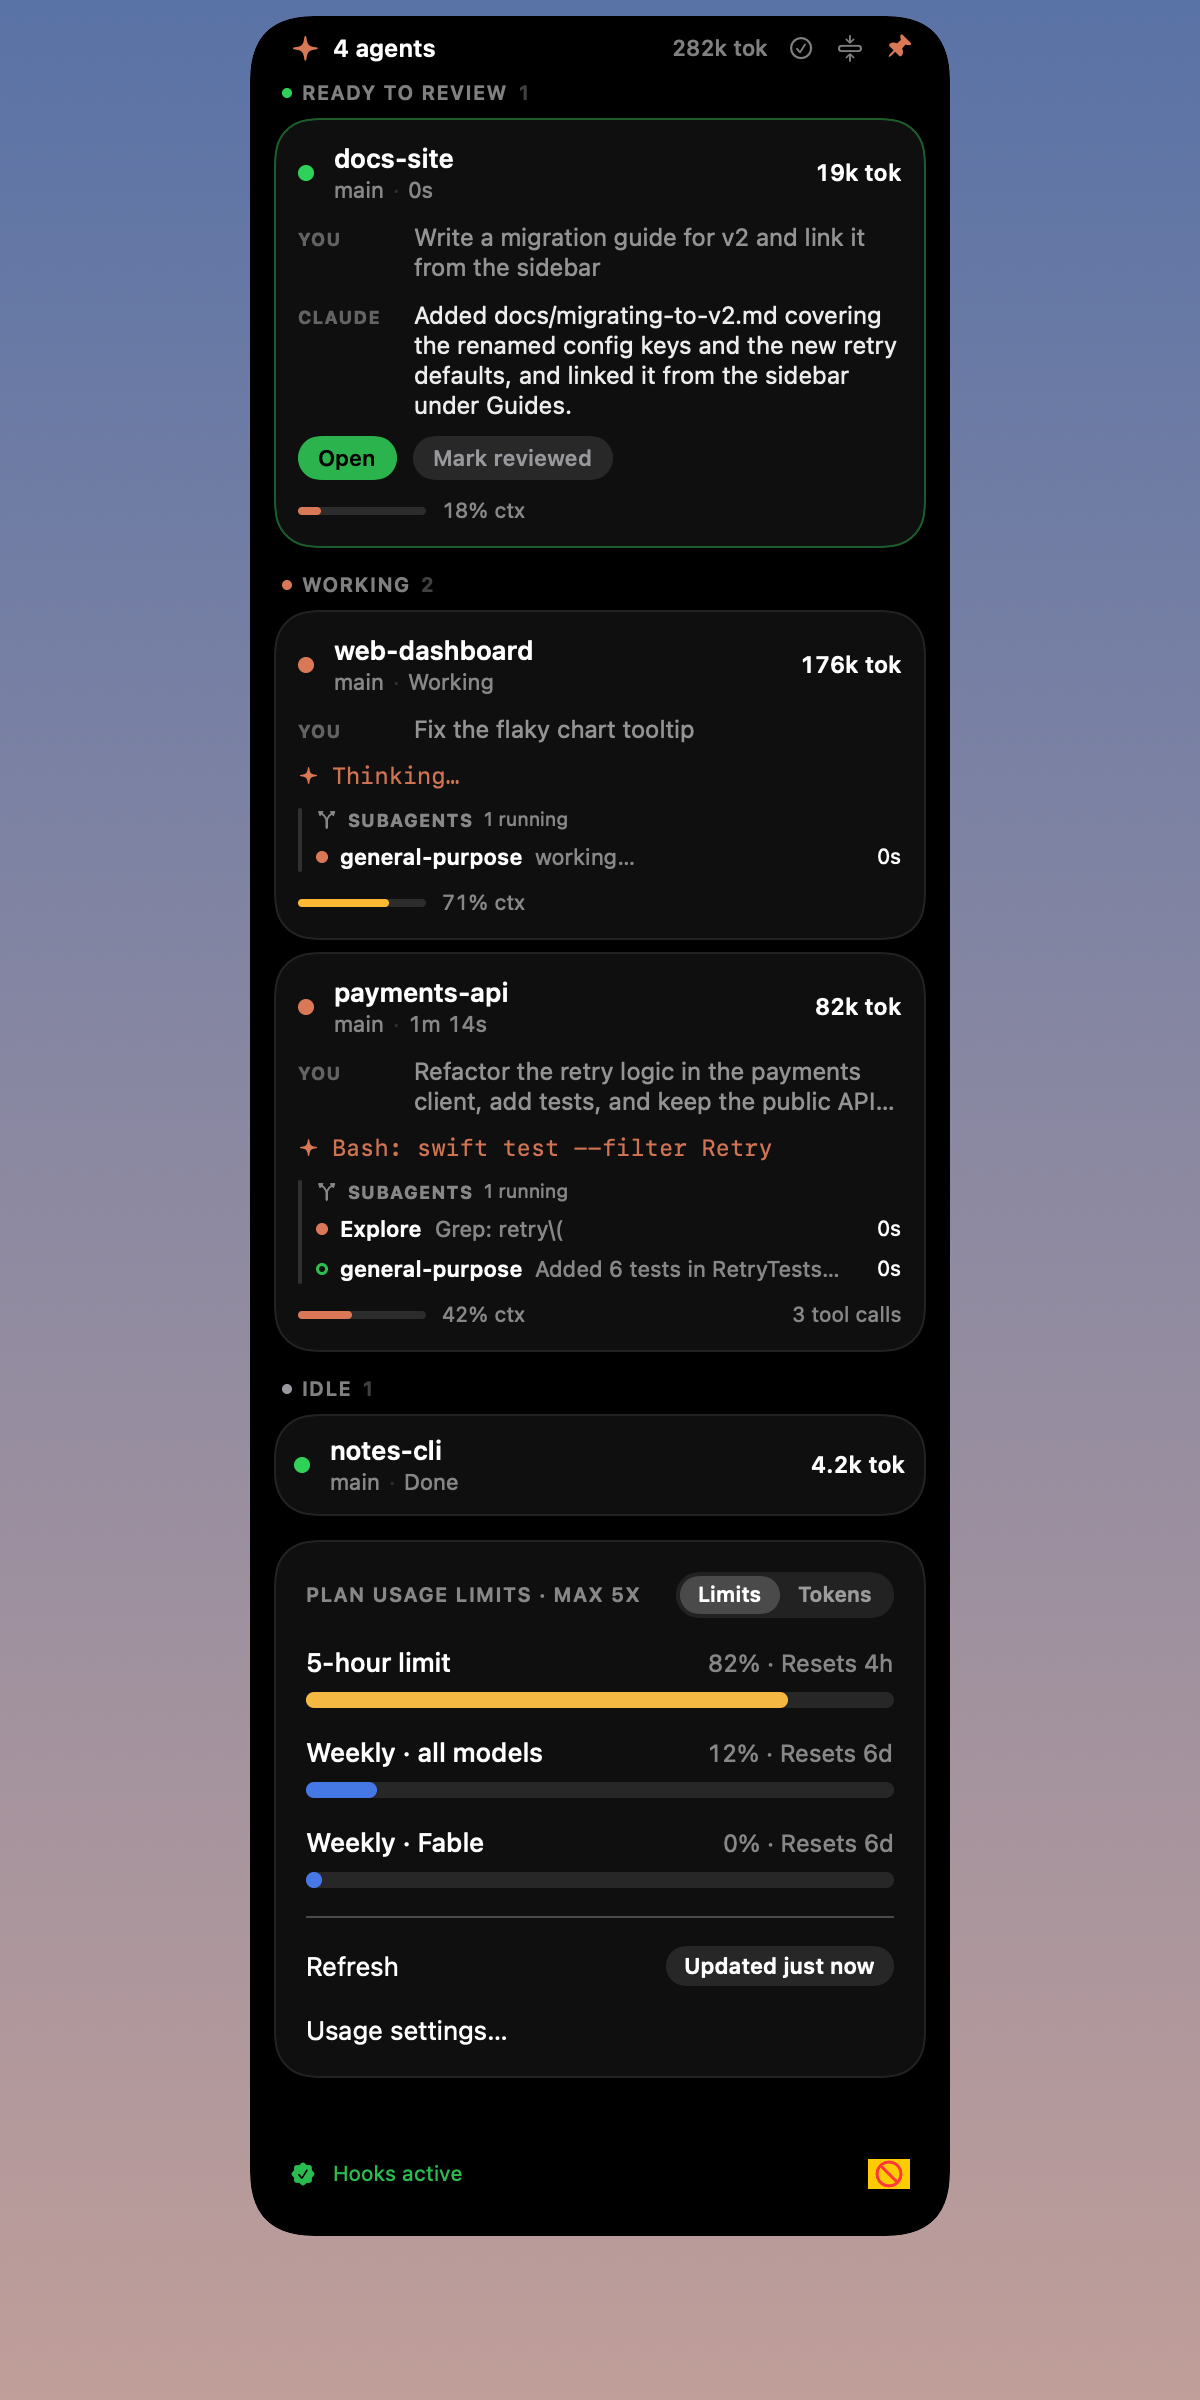
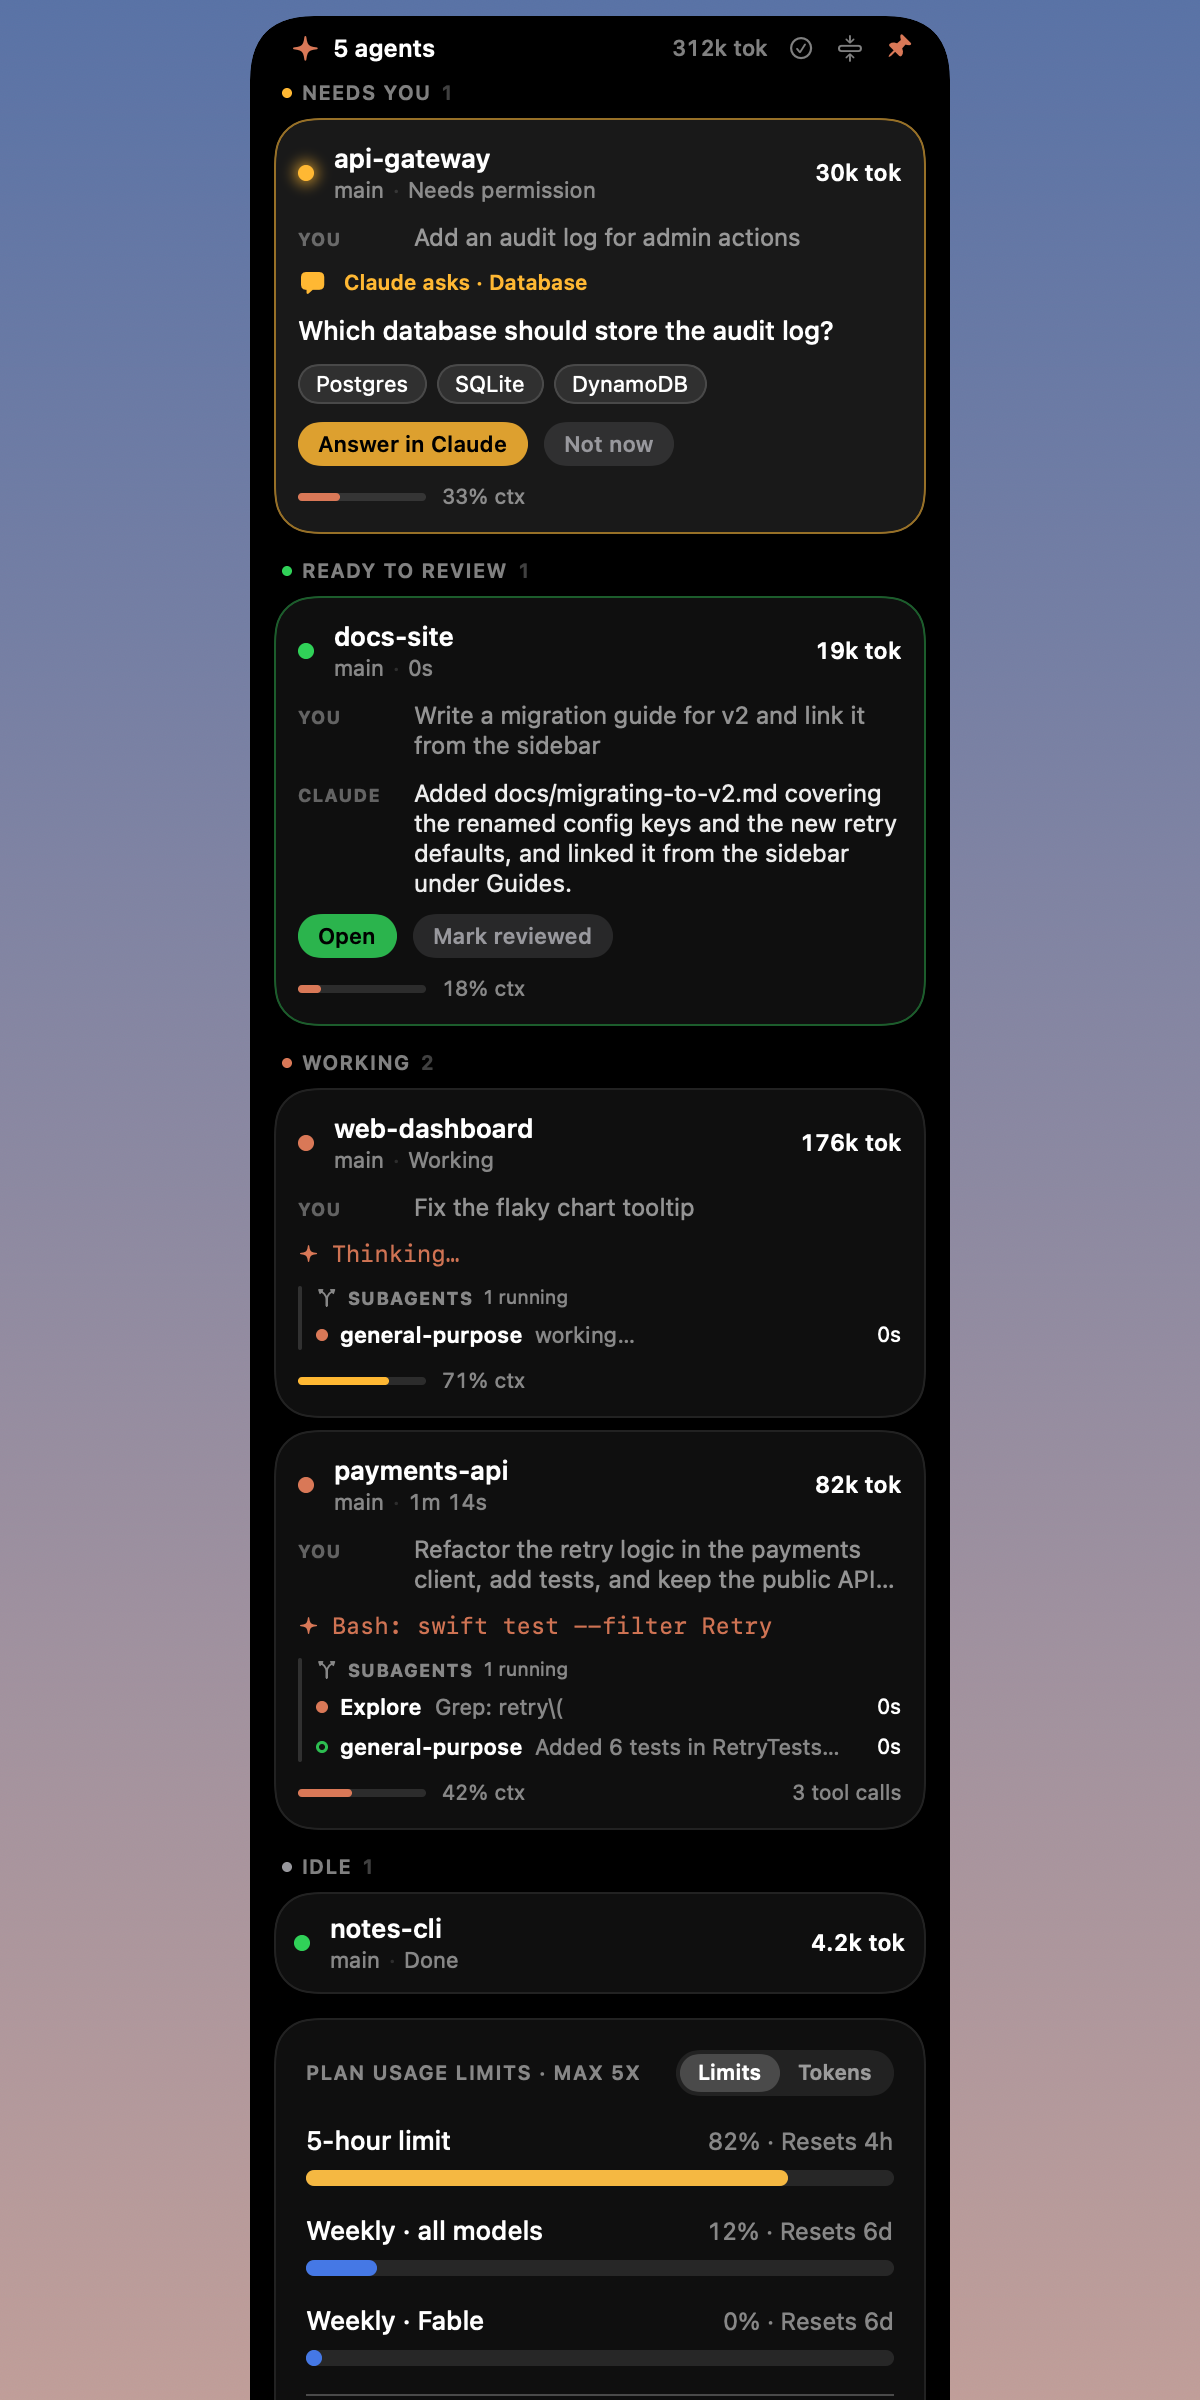
Show Claude's questions as questions, not permission prompts
When Claude asks the user something (the AskUserQuestion tool) the island now shows the question and its
choices with 'Answer in Claude' / 'Not now' (compact view: a single Answer button) instead of the raw tool
name with Allow/Deny. Notifications say 'Claude has a question'.

diff --git a/Sources/ClaudeNotch/Views.swift b/Sources/ClaudeNotch/Views.swift
@@ -714,12 +714,76 @@ struct SubagentList: View {
     }
 }
 
+/// The choices of a question as read-only pills that wrap onto as many lines as they need.
+struct FlowChips: View {
+    let items: [String]
+    var more = 0
+    var multi = false
+    var body: some View {
+        VStack(alignment: .leading, spacing: 5) {
+            ForEach(rows, id: \.self) { row in
+                HStack(spacing: 5) {
+                    ForEach(row, id: \.self) { Text($0).font(.system(size: 11)).lineLimit(1).chip() }
+                }
+            }
+            if more > 0 { Text("+\(more) more").font(.system(size: 10.5)).foregroundStyle(.secondary) }
+            if multi { Text("Pick any").font(.system(size: 10)).foregroundStyle(.tertiary) }
+        }
+    }
+    /// Greedy packing by approximate text width so pills wrap without a custom Layout.
+    private var rows: [[String]] {
+        var out: [[String]] = [[]]
+        var width = 0
+        for it in items {
+            let w = it.count * 7 + 22
+            if width + w > 250, !out[out.count - 1].isEmpty { out.append([]); width = 0 }
+            out[out.count - 1].append(it)
+            width += w + 5
+        }
+        return out
+    }
+}
+
+private extension View {
+    func chip() -> some View {
+        padding(.horizontal, 9).padding(.vertical, 3)
+            .background(Color.white.opacity(0.10), in: Capsule())
+            .overlay(Capsule().strokeBorder(Color.white.opacity(0.12), lineWidth: 1))
+    }
+}
+
 struct PermissionBar: View {
     let model: AppModel
     let session: AgentSession
     let pending: PendingPermission
 
     var body: some View {
+        if pending.isQuestion { questionBody } else { permissionBody }
+    }
+
+    /// Claude asking the user something: show the question and its choices, not a tool name.
+    private var questionBody: some View {
+        VStack(alignment: .leading, spacing: 9) {
+            Label(pending.question?.header.map { "Claude asks · \($0)" } ?? "Claude has a question", systemImage: "bubble.left.fill")
+                .font(.system(size: 10.5, weight: .semibold)).foregroundStyle(amber)
+            Text(pending.summary).font(.system(size: 13, weight: .medium)).lineLimit(4).fixedSize(horizontal: false, vertical: true)
+            if let opts = pending.question?.options, !opts.isEmpty {
+                // Read-only: the answer is given in Claude itself.
+                FlowChips(items: Array(opts.prefix(6)), more: max(0, opts.count - 6), multi: pending.question?.multiSelect == true)
+            }
+            if let total = pending.question?.total, total > 1 {
+                Text("+\(total - 1) more question\(total == 2 ? "" : "s")").font(.system(size: 10.5)).foregroundStyle(.secondary)
+            }
+            HStack(spacing: 8) {
+                ChipButton(title: "Answer in Claude", tint: amber, filled: true) {
+                    pending.canAnswer ? model.answerQuestion(session) : model.open(session)
+                }
+                if pending.canAnswer { ChipButton(title: "Not now", tint: .gray) { model.answer(session.id, .deny) } }
+            }
+        }
+    }
+
+    private var permissionBody: some View {
         VStack(alignment: .leading, spacing: 8) {
             if let a = pending.agentType {
                 Text("Subagent \(a) wants to run").font(.system(size: 10.5, weight: .semibold)).foregroundStyle(amber)
@@ -846,6 +910,7 @@ struct CompactRow: View {
     private var s: AgentSession { session }
 
     private var subline: String {
+        if let p = s.pending, p.isQuestion { return "Claude asks: " + p.summary }
         if let p = s.pending { return (p.agentType == nil ? "" : "↳ ") + p.summary }  // ↳ marks a subagent's request
         switch s.status {
         case .needsInput, .failed: return s.attentionMessage ?? Fmt.label(s.status)
@@ -868,7 +933,7 @@ struct CompactRow: View {
             VStack(alignment: .leading, spacing: 2) {
                 Text(s.displayTitle).font(.system(size: 13, weight: .semibold)).lineLimit(1)
                 Text(subline.replacingOccurrences(of: "\n", with: " "))
-                    .font(.system(size: 11, design: s.pending != nil ? .monospaced : .default))
+                    .font(.system(size: 11, design: (s.pending != nil && s.pending?.isQuestion != true) ? .monospaced : .default))
                     .foregroundStyle(s.status.needsAttention ? amber : Color.secondary).lineLimit(1)
             }
             Spacer(minLength: 6)
@@ -886,7 +951,9 @@ struct CompactRow: View {
     }
 
     @ViewBuilder private var trailing: some View {
-        if let p = s.pending {
+        if let p = s.pending, p.isQuestion {
+            ChipButton(title: "Answer", tint: amber, filled: true) { p.canAnswer ? model.answerQuestion(s) : model.open(s) }
+        } else if let p = s.pending {
             if p.canAnswer {
                 HStack(spacing: 6) {
                     ChipButton(title: "Allow", tint: .green, filled: true) { model.answer(s.id, .allow) }

diff --git a/Sources/ClaudeNotchCore/Session.swift b/Sources/ClaudeNotchCore/Session.swift
@@ -39,6 +39,34 @@ public struct Subagent: Sendable, Identifiable, Equatable {
     public var label: String { description ?? type }
 }
 
+/// A question Claude asked the user (the `AskUserQuestion` tool), parsed out of the request so it can be shown
+/// as a question with its choices instead of as a tool name.
+public struct AskedQuestion: Sendable, Equatable {
+    public var header: String?
+    public var text: String
+    public var options: [String]
+    public var multiSelect: Bool
+    /// How many questions the tool call contains (the first is shown).
+    public var total: Int
+
+    public static let toolName = "AskUserQuestion"
+
+    public static func parse(_ input: JSONValue?) -> AskedQuestion? {
+        guard case .array(let qs)? = input?["questions"], let first = qs.first, let text = first["question"]?.stringValue,
+            !text.isEmpty
+        else { return nil }
+        var options: [String] = []
+        if case .array(let opts)? = first["options"] {
+            for o in opts {
+                if let label = o["label"]?.stringValue ?? o.stringValue, !label.isEmpty { options.append(label) }
+            }
+        }
+        var multi = false
+        if case .bool(let b)? = first["multiSelect"] { multi = b }
+        return AskedQuestion(header: first["header"]?.stringValue, text: text, options: options, multiSelect: multi, total: qs.count)
+    }
+}
+
 public struct PendingPermission: Sendable, Equatable, Identifiable {
     public let id: UUID
     public var toolName: String
@@ -51,6 +79,9 @@ public struct PendingPermission: Sendable, Equatable, Identifiable {
     /// True when a hook process is blocked waiting for our answer (we can approve from the notch).
     public var canAnswer: Bool
     public var since: Date
+    /// Set when this "permission" is really Claude asking the user a question.
+    public var question: AskedQuestion?
+    public var isQuestion: Bool { question != nil || toolName == AskedQuestion.toolName }
 
     /// Whether `event` means this request has been settled elsewhere (answered in the terminal, tool ran,
     /// turn ended). Deliberately narrow: unrelated events such as the `Notification` that Claude Code fires
@@ -250,11 +281,12 @@ public struct SessionStore: Sendable {
         case "PermissionRequest":
             let alreadyAnnounced = s.status == .needsPermission && (s.pending == nil || s.pending?.toolUseId == p.toolUseId)
             s.status = .needsPermission; s.unseen = true
+            let asked = p.toolName == AskedQuestion.toolName ? AskedQuestion.parse(p.toolInput) : nil
             s.pending = PendingPermission(
                 id: UUID(), toolName: p.toolName ?? "tool",
-                summary: Self.summarize(tool: p.toolName, input: p.toolInput) ?? (p.toolName ?? "tool"),
+                summary: asked?.text ?? Self.summarize(tool: p.toolName, input: p.toolInput) ?? (p.toolName ?? "tool"),
                 message: p.message, agentType: p.agentId == nil ? nil : p.agentType, agentId: p.agentId,
-                toolUseId: p.toolUseId, canAnswer: env.expectsReply, since: now)
+                toolUseId: p.toolUseId, canAnswer: env.expectsReply, since: now, question: asked)
             s.attentionMessage = p.message
             if !alreadyAnnounced { effect = .notify(sessionId: sid, kind: .permission) }
 

diff --git a/Sources/ClaudeNotch/AppModel.swift b/Sources/ClaudeNotch/AppModel.swift
@@ -198,6 +198,12 @@ final class AppModel {
 
     /// Delivers Allow/Deny to the held hook. If the hook already went away (timeout, answered in the terminal)
     /// there is nothing to answer, so the request is simply detached instead of being reported as resolved.
+    /// "Answer in Claude": lets the question through (so Claude shows its own question UI), then jumps there.
+    func answerQuestion(_ session: AgentSession) {
+        answer(session.id, .allow)
+        open(session)
+    }
+
     func answer(_ sessionId: String, _ decision: PermissionDecision) {
         let reason = decision == .deny ? "Denied from Claude Notch" : nil
         if broker.answer(sessionId, decision, reason: reason) {
@@ -402,6 +408,18 @@ final class AppModel {
                 $0.agentId = "w1"; $0.agentType = "general-purpose"; $0.toolName = "Bash";
                 $0.toolInput = .object(["command": .string("npm install --save-dev vitest")])
             })
+        // api-gateway: Claude is asking the user a question
+        _ = store.apply(e("UserPromptSubmit", "api-gateway") { $0.prompt = "Add an audit log for admin actions" })
+        _ = store.apply(
+            e("PermissionRequest", "api-gateway", reply: true) {
+                $0.toolName = "AskUserQuestion"
+                let opts = ["Postgres", "SQLite", "DynamoDB"].map { JSONValue.object(["label": .string($0)]) }
+                let q = JSONValue.object([
+                    "question": .string("Which database should store the audit log?"), "header": .string("Database"),
+                    "multiSelect": .bool(false), "options": .array(opts),
+                ])
+                $0.toolInput = .object(["questions": .array([q])])
+            })
         // docs-site: finished, waiting for review
         _ = store.apply(e("UserPromptSubmit", "docs-site") { $0.prompt = "Write a migration guide for v2 and link it from the sidebar" })
         _ = store.apply(
@@ -414,7 +432,7 @@ final class AppModel {
         store.markSeen("notes-cli")
         for (id, ctx, cost, tok) in [
             ("payments-api", 0.42, 1.87, 412_000), ("web-dashboard", 0.71, 3.20, 880_000), ("docs-site", 0.18, 0.34, 96_000),
-            ("notes-cli", 0.1, 0.12, 21_000),
+            ("notes-cli", 0.1, 0.12, 21_000), ("api-gateway", 0.33, 0.9, 150_000),
         ] {
             store.setDemoUsage(id, ctxFraction: ctx, cost: cost, tokens: tok)
         }

diff --git a/Tests/ClaudeNotchCoreTests/QuestionTests.swift b/Tests/ClaudeNotchCoreTests/QuestionTests.swift
@@ -1,0 +1,46 @@
+import Foundation
+import Testing
+
+@testable import ClaudeNotchCore
+
+@Suite struct QuestionTests {
+    func input(_ json: String) throws -> JSONValue { try JSONDecoder().decode(JSONValue.self, from: Data(json.utf8)) }
+
+    @Test func parsesTheQuestionAndItsChoices() throws {
+        let q = try #require(
+            AskedQuestion.parse(
+                try input(
+                    #"{"questions":[{"question":"Which database should we use?","header":"Database","multiSelect":false,"options":[{"label":"Postgres","description":"relational"},{"label":"SQLite"}]},{"question":"Second?","options":[]}]}"#
+                )))
+        #expect(q.text == "Which database should we use?" && q.header == "Database")
+        #expect(q.options == ["Postgres", "SQLite"] && !q.multiSelect && q.total == 2)
+    }
+
+    @Test func toleratesOddShapes() throws {
+        #expect(AskedQuestion.parse(nil) == nil)
+        #expect(AskedQuestion.parse(try input(#"{"questions":[]}"#)) == nil)
+        #expect(AskedQuestion.parse(try input(#"{"questions":[{"question":""}]}"#)) == nil)
+        let plain = try #require(
+            AskedQuestion.parse(try input(#"{"questions":[{"question":"Pick","options":["A","B"],"multiSelect":true}]}"#)))
+        #expect(plain.options == ["A", "B"] && plain.multiSelect)  // bare-string options
+    }
+
+    @Test func aPermissionRequestForTheQuestionToolIsShownAsAQuestion() throws {
+        var s = SessionStore()
+        let q = try input(#"{"questions":[{"question":"Ship it now?","options":[{"label":"Yes"},{"label":"Not yet"}]}]}"#)
+        s.apply(
+            ev("PermissionRequest", expectsReply: true) {
+                $0.toolName = "AskUserQuestion"; $0.toolInput = q
+            })
+        let p = try #require(s.sessions["s1"]?.pending)
+        #expect(p.isQuestion && p.summary == "Ship it now?")  // not "AskUserQuestion: ..."
+        #expect(p.question?.options == ["Yes", "Not yet"])
+        // An ordinary tool is not a question.
+        var t = SessionStore()
+        t.apply(
+            ev("PermissionRequest", expectsReply: true) {
+                $0.toolName = "Bash"; $0.toolInput = .object(["command": .string("ls")])
+            })
+        #expect(t.sessions["s1"]?.pending?.isQuestion == false)
+    }
+}

diff --git a/Sources/ClaudeNotch/Notifier.swift b/Sources/ClaudeNotch/Notifier.swift
@@ -14,6 +14,8 @@ enum Notifier {
     static func post(kind: SessionStore.NotifyKind, session s: AgentSession, sound: Bool, banner: Bool, details: Bool) {
         let (title, body): (String, String) =
             switch kind {
+            case .permission where s.pending?.isQuestion == true:
+                ("Claude has a question · \(s.projectName)", s.pending?.summary ?? "Claude is asking you something")
             case .permission:
                 ("Approval needed · \(s.projectName)", s.pending?.summary ?? s.attentionMessage ?? "Claude is asking for permission")
             case .input: ("Waiting for you · \(s.projectName)", s.attentionMessage ?? "Claude is waiting for your input")
@@ -24,7 +26,7 @@ enum Notifier {
         guard banner, available else { return }
         let generic: String =
             switch kind {
-            case .permission: "Claude is asking for permission"
+            case .permission: s.pending?.isQuestion == true ? "Claude is asking you a question" : "Claude is asking for permission"
             case .input: "Claude is waiting for your input"
             case .finished: "The turn finished"
             case .failed: "Claude hit an error"
